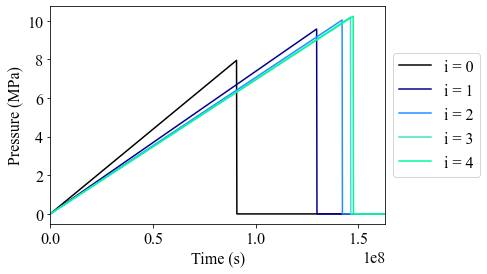
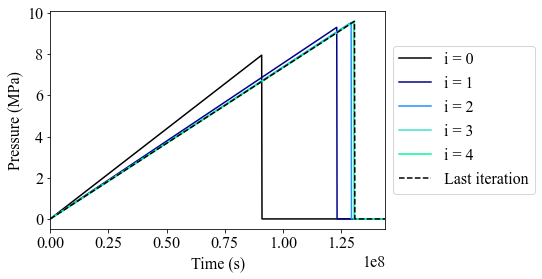
Program now calculates the thickness of the viscoelastic ice shell around the reservoir and uses it for the calculations

Changed region(s): [[0.0, 0.0, 1.0, 0.9635], [0.7392, 0.9051, 0.8008, 0.9635], [0.6468, 0.9051, 0.7084, 0.9635]]

diff --git a/graphical_outputs_definitions.py b/graphical_outputs_definitions.py
@@ -125,9 +125,11 @@ def plotGraph1(t_c, p_c, R1, R2, RES, PC):
         initGraph()
         for (time, color, legend) in zip(time_list,color_list, legend_list) :
             plt.plot(r1_val/R1, u1_val[time], color, label = legend)
-            plt.plot(r2_val/R1, u2_val[time], color)
+            if RES.isElastic == 1:
+                plt.plot(r2_val/R1, u2_val[time], color)
         plt.plot(r1_val/R1, np.zeros(len(r1_val)), 'k:')
-        plt.plot(r2_val/R1, np.zeros(len(r2_val)), 'k:')
+        if RES.isElastic == 1:
+            plt.plot(r2_val/R1, np.zeros(len(r2_val)), 'k:')
         plt.legend()
         plt.xlabel('$r/R_1$')
         plt.ylabel('$u(r)$ (m)')
@@ -142,9 +144,11 @@ def plotGraph1(t_c, p_c, R1, R2, RES, PC):
         initGraph()
         for (time, color, legend) in zip(time_list,color_list, legend_list) :
             plt.plot(r1_val/R1, abs(sigma1_rr_val[time])/p_c, color, label = legend)
-            plt.plot(r2_val/R1, abs(sigma2_rr_val[time])/p_c, color)
+            if RES.isElastic == 1:
+                plt.plot(r2_val/R1, abs(sigma2_rr_val[time])/p_c, color)
         plt.plot(r1_val/R1, np.zeros(len(r1_val)), 'k:')
-        plt.plot(r2_val/R1, np.zeros(len(r2_val)), 'k:')
+        if RES.isElastic == 1:
+            plt.plot(r2_val/R1, np.zeros(len(r2_val)), 'k:')
         plt.legend()
         plt.xlabel('$r/R_1$')
         plt.ylabel(r'$\sigma_{rr}(r)/\Delta P_c$')
@@ -159,9 +163,11 @@ def plotGraph1(t_c, p_c, R1, R2, RES, PC):
         initGraph()
         for (time, color, legend) in zip(time_list,color_list, legend_list) :
             plt.plot(r1_val/R1, (sigma1_tt_val[time])/p_c, color, label = legend)
-            plt.plot(r2_val/R1, (sigma2_tt_val[time])/p_c, color)
+            if RES.isElastic == 1:
+                plt.plot(r2_val/R1, (sigma2_tt_val[time])/p_c, color)
         plt.plot(r1_val/R1, np.zeros(len(r1_val)), 'k:')
-        plt.plot(r2_val/R1, np.zeros(len(r2_val)), 'k:')
+        if RES.isElastic == 1:
+            plt.plot(r2_val/R1, np.zeros(len(r2_val)), 'k:')
         plt.legend()
         plt.xlabel('$r/R_1$')
         plt.ylabel(r'$\sigma_{\theta\theta}(r)/\Delta P_c$ = $\sigma_{\phi\phi}(r)/\Delta P_c$')

diff --git a/reservoir_definitions.py b/reservoir_definitions.py
@@ -61,6 +61,7 @@ class bodyParameters: # or BP
     def __init__(self): 
         # gravity
         self.g = 1.315
+        self.viscoThickness = 6000
         
 class reservoirModelDerivedValues: # or RES
     def __init__(self): 
@@ -95,6 +96,8 @@ class reservoirModelDerivedValues: # or RES
         # Radii of the reservoir and the viscoelastic shell (m)
         self.R1 = 0
         self.R2 = 0
+        # Is the ice far from the reservoir elastic?
+        self.isElastic = 0
         # Temperature at the edge of the viscoelastic shell
         self.T2 = 0
         # Viscosity (only for the viscoelastic zone)
@@ -238,7 +241,35 @@ def cryoFreeze(BP,PP,TP,RES):
     RES.t_c = freezingTime(RES.Sc, TP, RES)
     
     return RES
+
+
+#---------------------------------------------------------------------------
+# Calculation of the viscoelastic shell thickness
+#---------------------------------------------------------------------------
+
+def findR2(TP, PP, BP, RES):
     
+    RES.R1 = RES.R
+    
+    # temperature at which the transition between elastic and viscous happens:
+    RES.T2 = 273/(1/25.2*np.log(PP.E*RES.t_c/1e14)+1)
+    print ('T2 = ', RES.T2)
+        
+    if RES.T2 < RES.T :
+        RES.R2 = (BP.viscoThickness - RES.R) / 2
+    
+    else:
+        RES.isElastic = 1
+        # location of the transition front in the corrdinate system where z=0 is the
+        # reservoir wall
+        Z2 = 2*np.sqrt(TP.kappa*RES.t_c)*sp.special.erfinv(((RES.T2-RES.T)*(1+sp.special.erf(RES.Lambda))/(273-RES.T))-1)
+        # in the coordinate system used by Dragoni and Magnanensi:
+        RES.R2 = RES.R1 - Z2
+    print ('R2 = ', RES.R2)
+    
+    return RES
+
+
 #---------------------------------------------------------------------------
 # Deformation model from Dragoni and Magnanensi
 #---------------------------------------------------------------------------
@@ -253,8 +284,8 @@ def cryoRheol(BP,PP,TP,RES):
     RES.K2 = PP.K1
     
     # Radii :
-    RES.R1 = RES.R
-    RES.R2 = 1.3*RES.R
+    #RES.R1 = RES.R
+    #RES.R2 = 1.3*RES.R
     
     # Temperature around reservoir :
     #RES.T2 = 100+((150/10000)*RES.h)

diff --git a/reservoir_main.py b/reservoir_main.py
@@ -23,10 +23,10 @@ import numpy as np
 salts = 0
 
 # reservoir radius (m)
-radius = 500
+radius = 1000
 
 # reservoir depth (m) (< 5500m to stay in the elastic zone)
-depth = 2000
+depth = 8000
 
 """------------------------------------------------------------------'"""
 
@@ -72,6 +72,8 @@ print('t_c = ', RES.t_c/3600/24, ' days')
 # Deformation from Dragoni & Maganensi :
 #---------------------------------------------------------------------------
 
+RES = rd.findR2(TP, PP, BP, RES)
+
 RES = rd.cryoRheol(BP,PP,TP,RES)
 print('tau = ', RES.tau/3600/24, ' days')
 
@@ -83,7 +85,7 @@ print('tau = ', RES.tau/3600/24, ' days')
 """ graphical output? 0 = no, 1 = yes """
 PC.graph1 = 1
 """ save as PDF? 0 = no, 1 = yes """
-PC.save1 = 1
+PC.save1 = 0
 
 
 t = RES.t_c
@@ -102,7 +104,7 @@ RES = rd.iterate(PP, TP, RES)
 """ graphical output? 0 = no, 1 = yes """
 PC.graph2 = 1
 """ save as PDF? 0 = no, 1 = yes """
-PC.save2 = 1
+PC.save2 = 0
 
 gd.plotGraph2(RES, PC)
 
